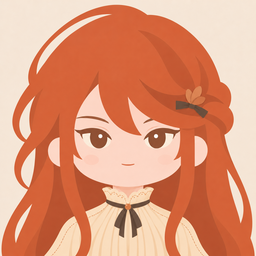
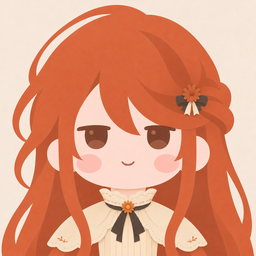
Make small refinements to the earlier heroine concept

diff --git a/docs/STATUS.md b/docs/STATUS.md
@@ -24,7 +24,7 @@
 
 ## 正在做 / 下一步（按顺序）
 
-**C8 图标小样**：已准备铜红长发文学少女的Q 版图标小样（沿用原立绘配色，垂坠软布、低调发饰、从容浅笑），放在 `design/incoming/app-icon/`，待主人选定方向。选定后再制作三种正式外观并接入 App。
+**C8 图标小样**：已准备铜红长发文学少女的Q 版图标小样（保留原服装和神态，微调眼神、缩小发花、减淡肩部刺绣），放在 `design/incoming/app-icon/`，待主人选定方向。选定后再制作三种正式外观并接入 App。
 
 1. **验证宠物这一包**：编译、截图核对（聊天页、宠物设置）。
 2. **称谓铺满**：出错提示（`AgentKit` 的 `Explain` 在包里，需要在 App 侧按标题映射到 `errors.*`）、加载提示、其余空状态和页面里的写死文字，逐步改成 `L.t`。
